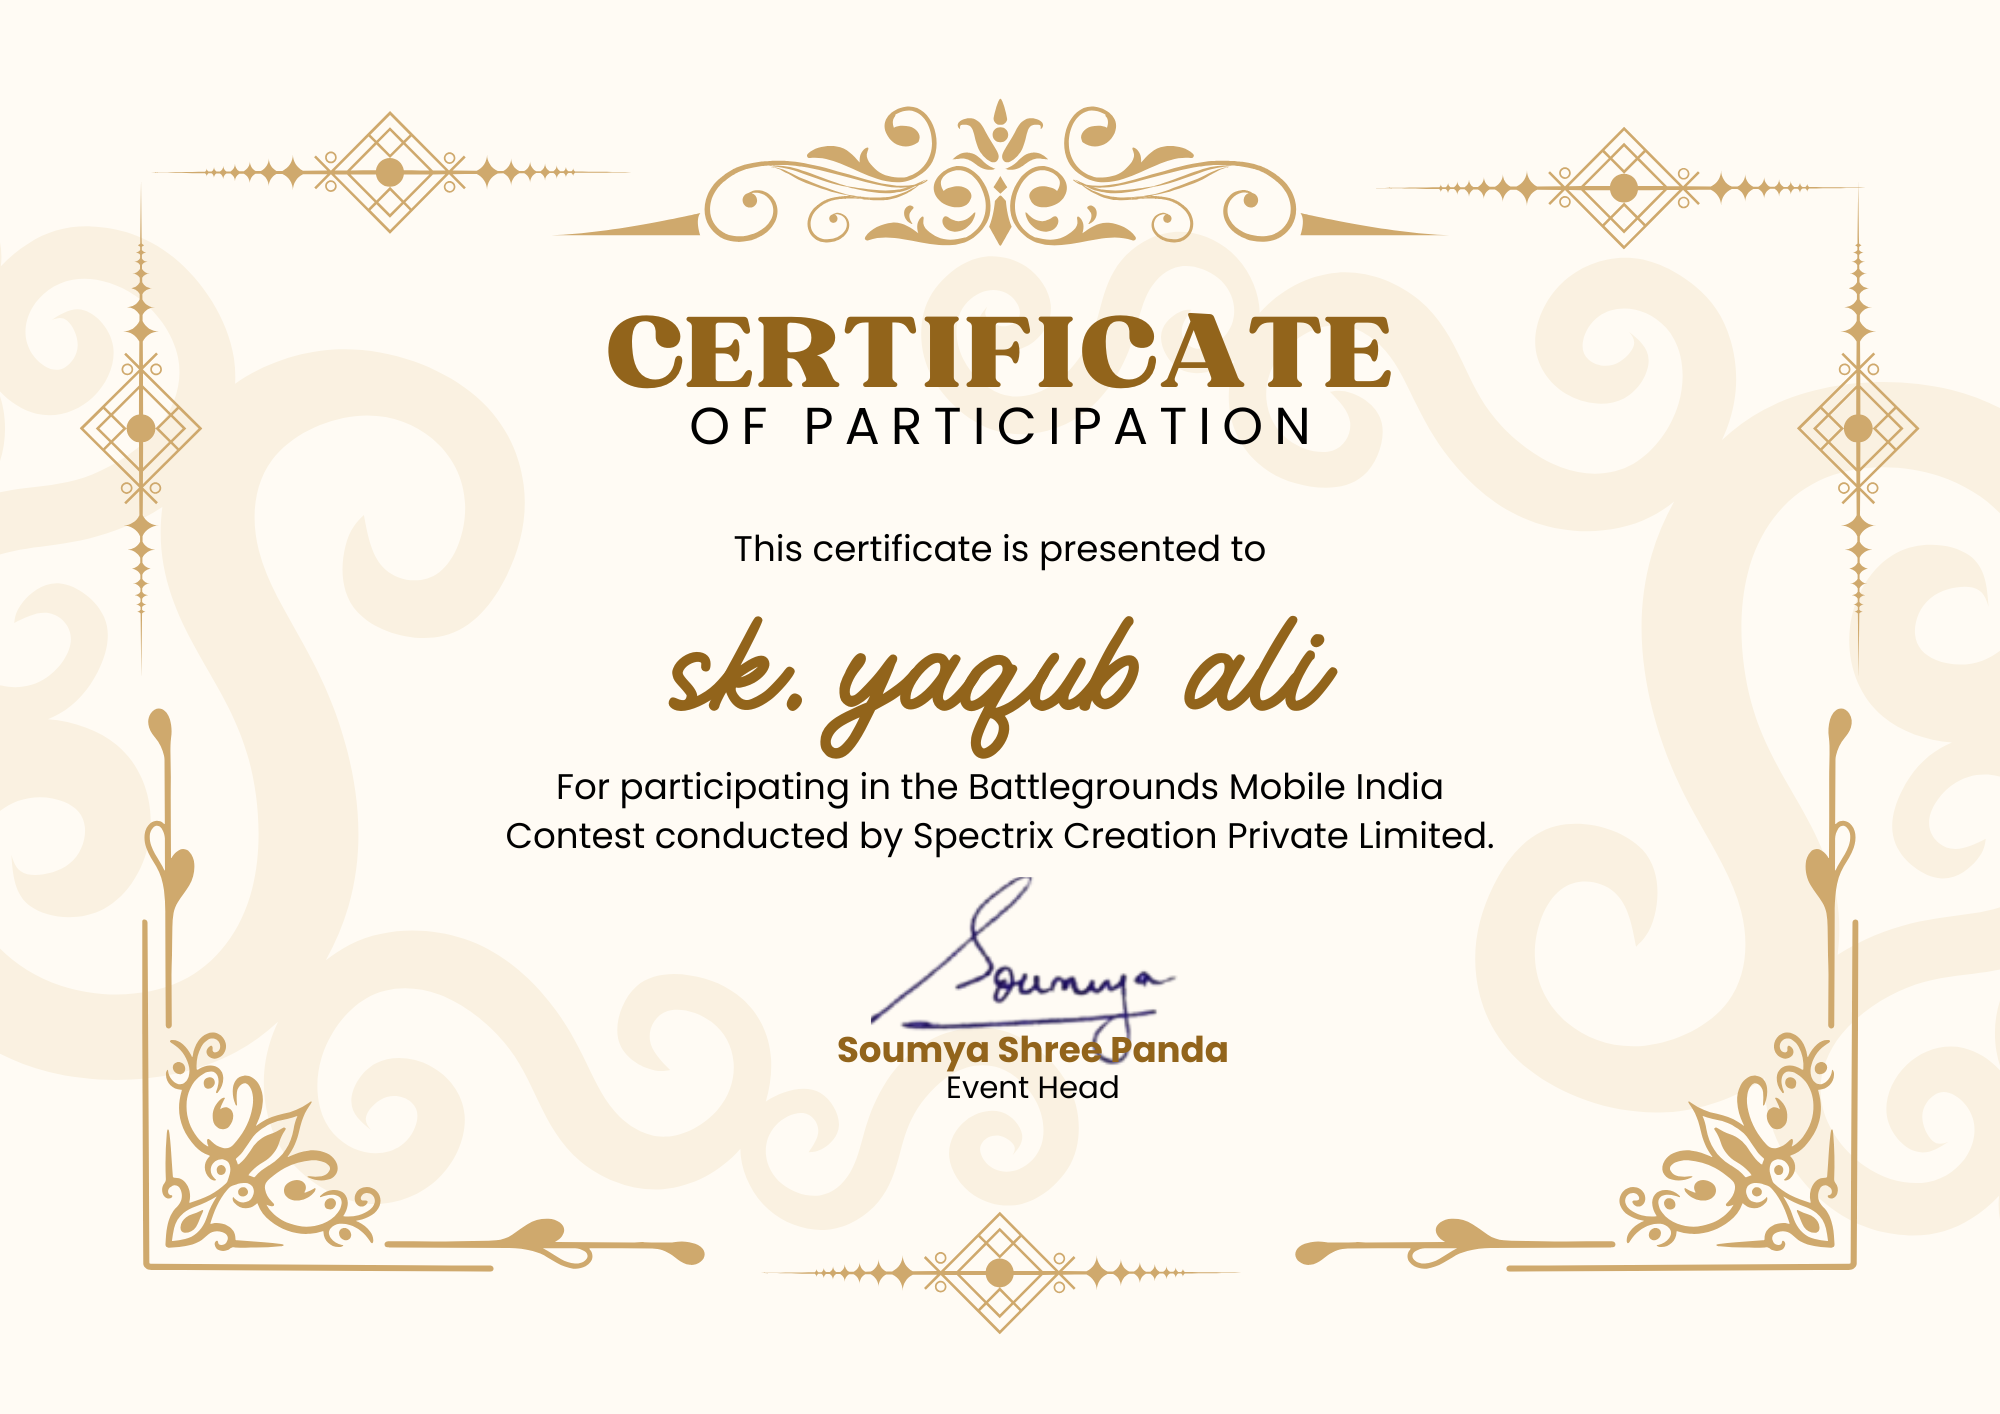
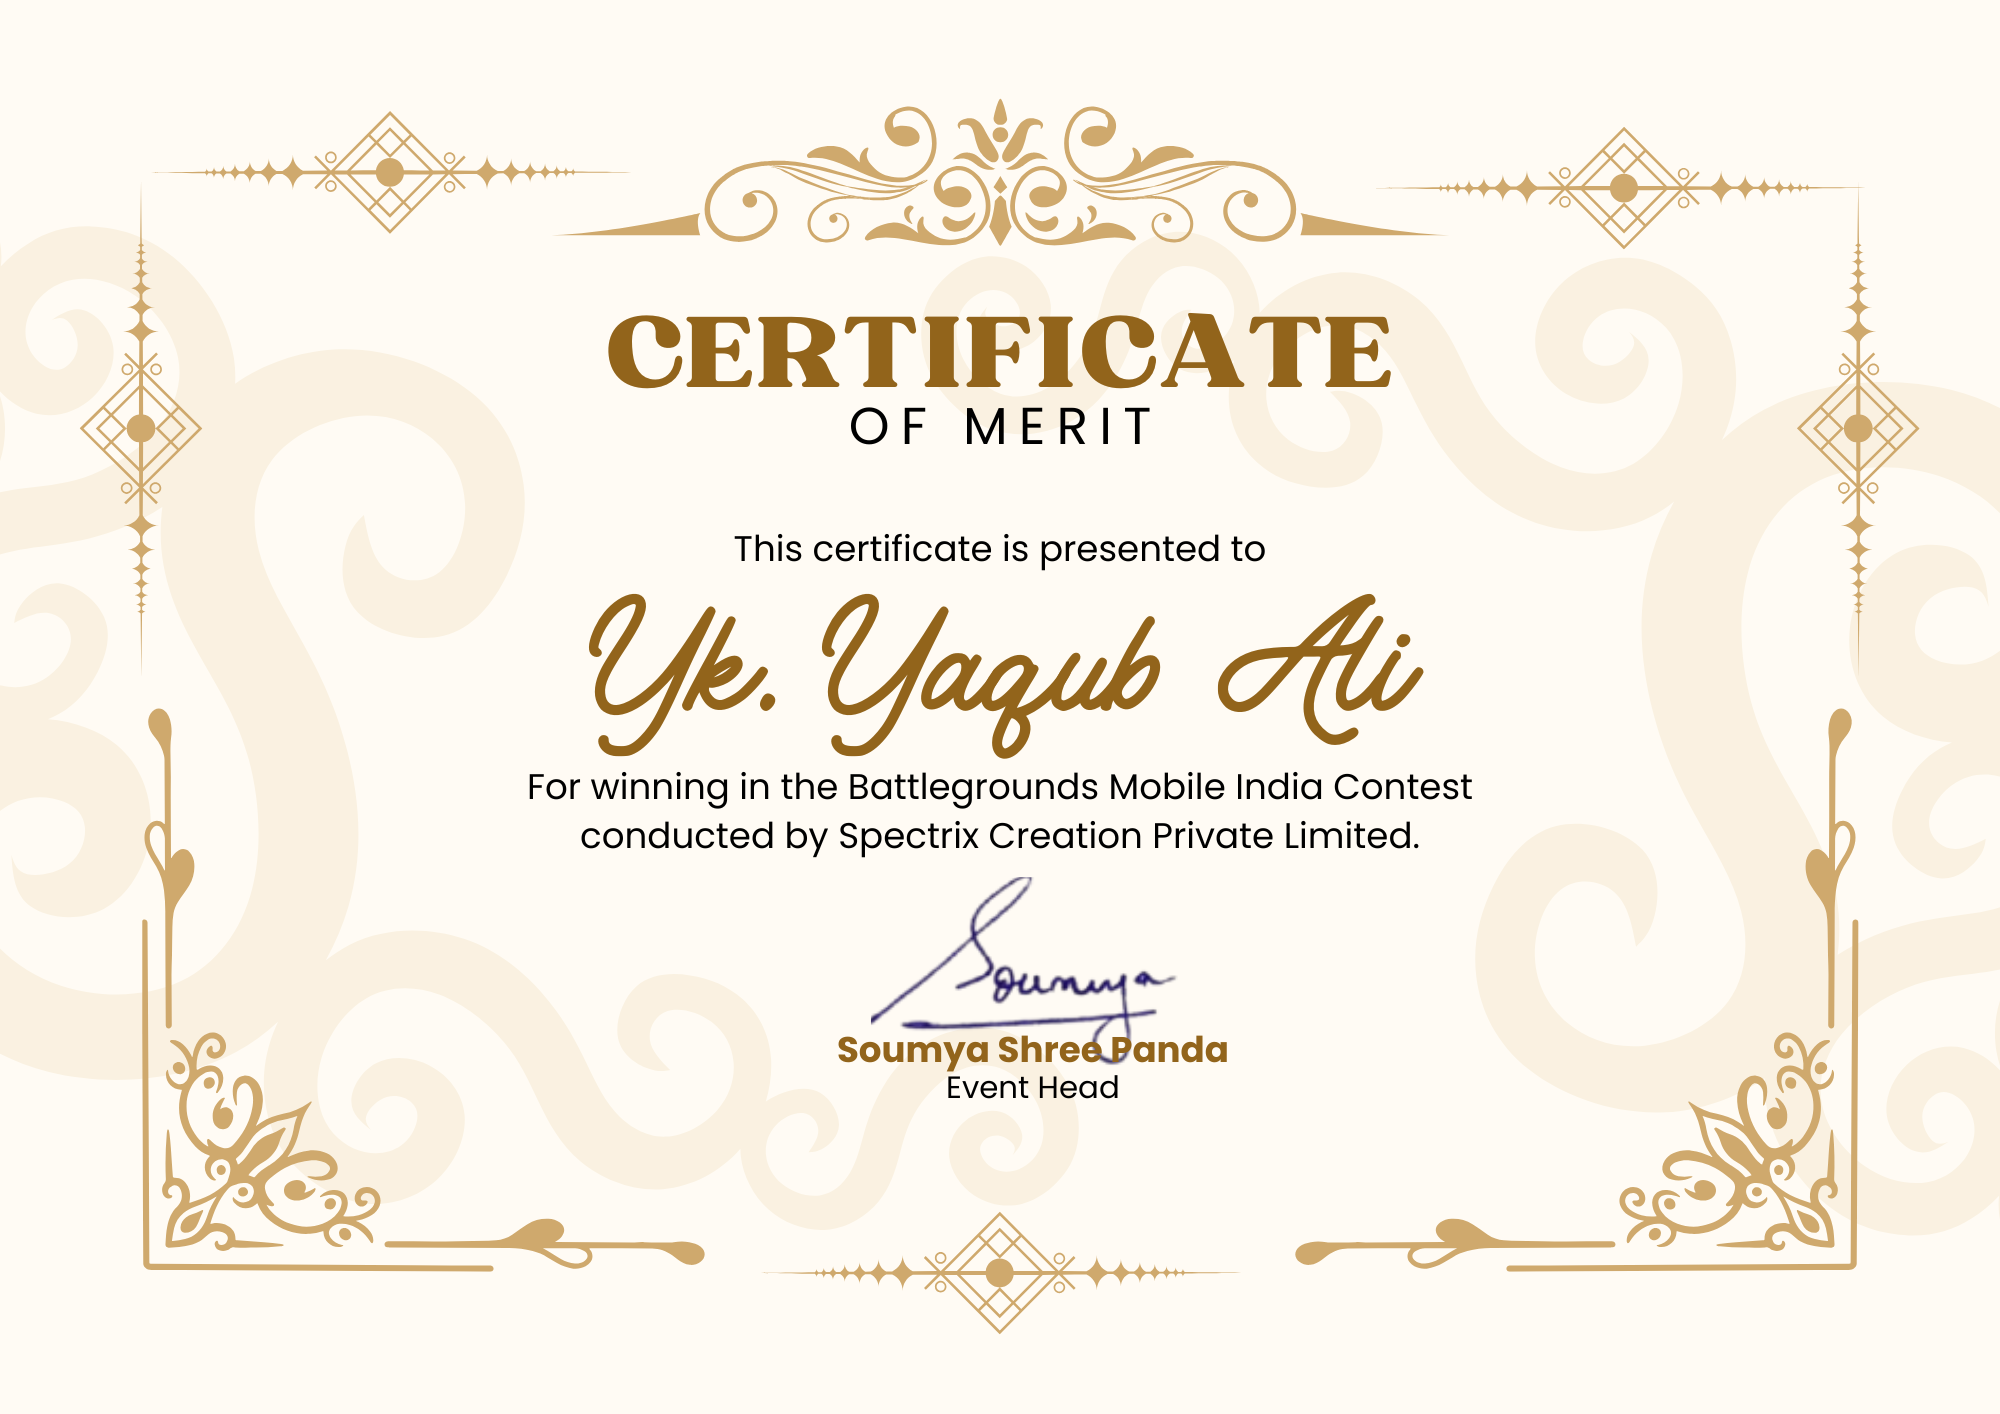
winner 2

Changed region(s): [[0.248, 0.4045, 0.744, 0.6223], [0.341, 0.2801, 0.651, 0.3112]]

diff --git a/winner.html b/winner.html
@@ -121,7 +121,11 @@
                 <a href="images/wincert1.png" download class="download-btn">Download</a>
                 <h1>Yk. yaqub ali</h1>
             </div>
-            
+            <div class="gallery-item">
+              <img src="images/win2.jpg" alt="Certificate 1">
+              <a href="images/wincert2.png" download class="download-btn">Download</a>
+              <h1>U. Yash Vardhan</h1>
+          </div>
           
             
             
